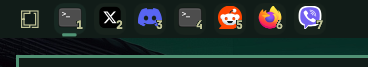
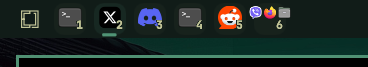
Fix three-app workspace layout

diff --git a/Workspaces.qml b/Workspaces.qml
@@ -12,6 +12,7 @@ BarWidget {
   // Max app icons rendered per workspace before collapsing into "+N"
   property int maxIcons: 3
   readonly property real iconSize: Math.max(10, Math.min(14, root.barSize * 0.34))
+  readonly property real tripleIconSize: Math.max(8, Math.min(10, root.barSize * 0.27))
   readonly property real singleIconSize: Math.max(15, Math.min(17, root.barSize * 0.46))
 
   function workspaceById(id) {
@@ -159,7 +160,9 @@ BarWidget {
             Image {
               required property int index
               required property string modelData
-              readonly property real renderedSize: button.icons.urls.length === 1 ? root.singleIconSize : root.iconSize
+              readonly property real renderedSize: button.icons.urls.length === 1
+                ? root.singleIconSize
+                : (button.icons.urls.length >= 3 ? root.tripleIconSize : root.iconSize)
               source: modelData
               sourceSize.width: renderedSize
               sourceSize.height: renderedSize
@@ -169,19 +172,33 @@ BarWidget {
                 var count = button.icons.urls.length
                 if (count === 1) return (button.width - width) / 2
                 if (count === 2) return button.width / 2 - width + index * width
-                if (index === 0) return 5
-                if (index === 1) return button.width - width - 5
-                return (button.width - width) / 2
+                var gap = 1
+                var rowWidth = count * width + (count - 1) * gap
+                return (button.width - rowWidth) / 2 + index * (width + gap)
               }
               y: {
                 var count = button.icons.urls.length
                 if (count === 1) return (button.height - height) / 2 - 1
-                if (count === 2) return 4
-                return index < 2 ? 4 : button.height - height - 4
+                return 4
               }
               fillMode: Image.PreserveAspectFit
               smooth: true
             }
+          }
+
+          Text {
+            visible: button.icons.extra > 0
+            anchors.left: parent.left
+            anchors.leftMargin: 4
+            anchors.bottom: parent.bottom
+            anchors.bottomMargin: 3
+            text: "+" + button.icons.extra
+            color: button.bar ? button.bar.barForeground : Color.foreground
+            font.family: button.fontFamily
+            font.pixelSize: Math.max(7, button.fontSize * 0.54)
+            font.weight: Font.DemiBold
+            style: Text.Outline
+            styleColor: Color.background
           }
 
           Text {
